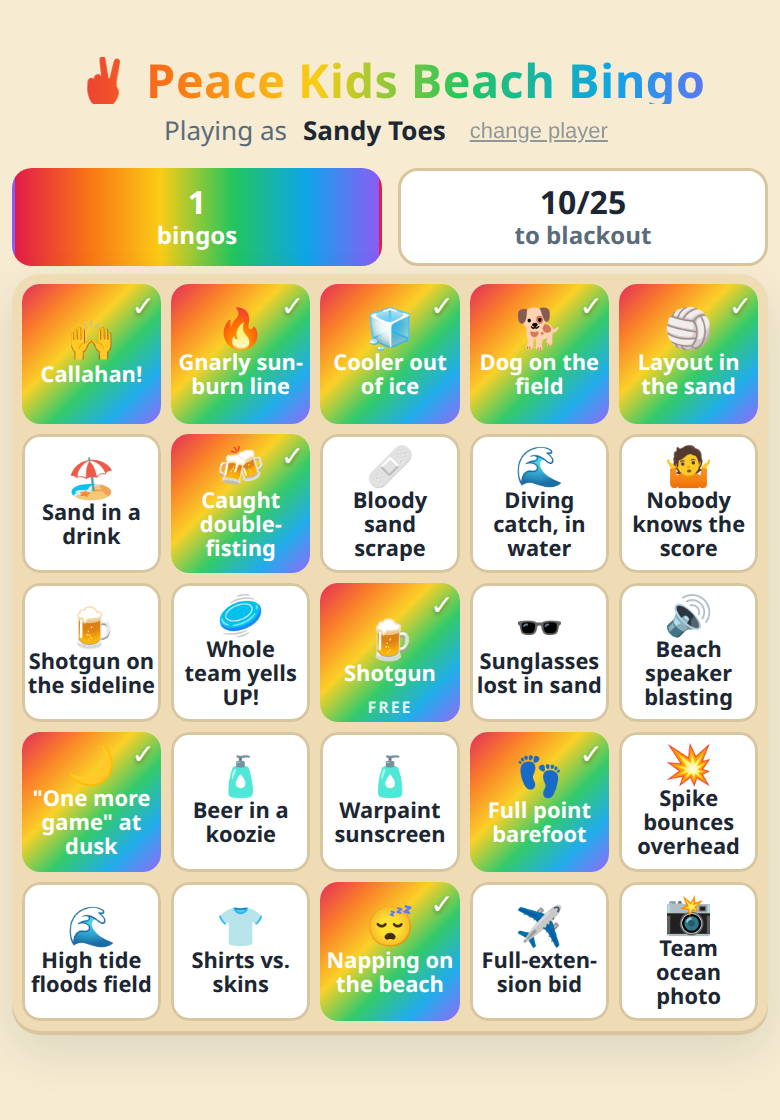
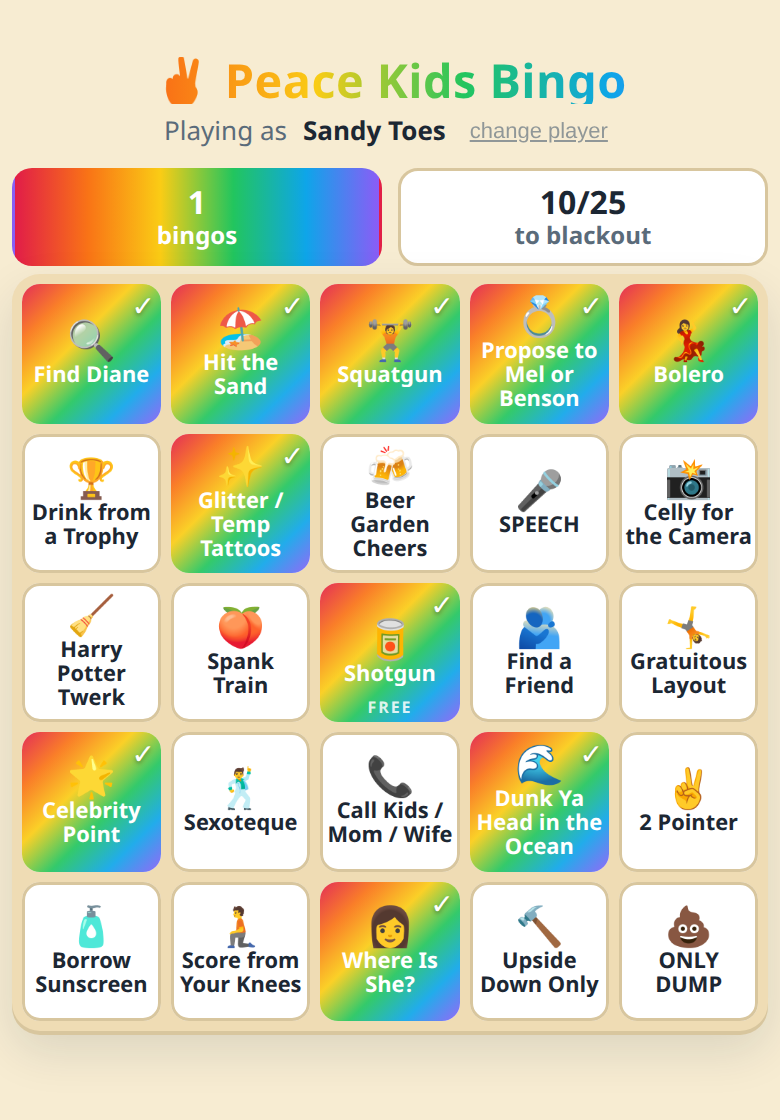
Load the real Peace Kids squares; drop "Beach" from the title
Replace the placeholder beach prompts with the team's 24 squares, set the
Shotgun free space to a can emoji, and rename to "Peace Kids Bingo". Update
the README for the 24-prompt (position-only) model and refresh screenshots.

diff --git a/index.html b/index.html
@@ -4,7 +4,7 @@
 <meta charset="UTF-8">
 <meta name="viewport" content="width=device-width, initial-scale=1.0, viewport-fit=cover">
 <meta name="theme-color" content="#0e7490">
-<title>Peace Kids Beach Bingo</title>
+<title>Peace Kids Bingo</title>
 <style>
   /* ---- Content settings live in the <script> CONFIG/PROMPTS below. Style only here. ---- */
   :root{
@@ -132,7 +132,7 @@
 <body>
 
 <header>
-  <h1>✌ Peace Kids Beach Bingo</h1>
+  <h1>✌ Peace Kids Bingo</h1>
   <div class="who">Playing as <b id="whoName">--</b><button id="changeUser">change player</button></div>
 </header>
 
@@ -167,40 +167,34 @@
    ========================================================================== */
 const CONFIG = {
   // Center free space. Swap emoji for img:"shotgun.png" once an image is added to images/.
-  freeSpace: { text: "Shotgun", emoji: "🍺" },
+  freeSpace: { text: "Shotgun", emoji: "🥫" },
 };
 
 const PROMPTS = [
-  { text: "Layout in the sand",       emoji: "🏐" },
-  { text: "Gnarly sunburn line",      emoji: "🔥" },
-  { text: "Lost a flip-flop",         emoji: "🩴" },
-  { text: "Beer in a koozie",         emoji: "🧴" },
-  { text: "Diving catch, in water",   emoji: "🌊" },
-  { text: "Whole team yells UP!",     emoji: "🥏" },
-  { text: "Cooler out of ice",        emoji: "🧊" },
-  { text: "Full point barefoot",      emoji: "👣" },
-  { text: "Callahan!",                emoji: "🙌" },
-  { text: "Dog on the field",         emoji: "🐕" },
-  { text: "Spike bounces overhead",   emoji: "💥" },
-  { text: "Team ocean photo",         emoji: "📸" },
-  { text: "Napping on the beach",     emoji: "😴" },
-  { text: "Beer snake sighting",      emoji: "🐍" },
-  { text: "Sand in a drink",          emoji: "🏖" },
-  { text: "Huck into the ocean",      emoji: "🌊" },
-  { text: "Shirts vs. skins",         emoji: "👕" },
-  { text: "Sunglasses lost in sand",  emoji: "🕶" },
-  { text: "Caught double-fisting",    emoji: "🍻" },
-  { text: '"One more game" at dusk',  emoji: "🌙" },
-  { text: "Bloody sand scrape",       emoji: "🩹" },
-  { text: "Beach speaker blasting",   emoji: "🔊" },
-  { text: "Drink for a bad call",     emoji: "🍺" },
-  { text: "Chase disc into the sea",  emoji: "🏊" },
-  { text: "Hiding in a shade tent",   emoji: "⛺" },
-  { text: "Warpaint sunscreen",       emoji: "🧴" },
-  { text: "Full-extension bid",       emoji: "✈" },
-  { text: "Nobody knows the score",   emoji: "🤷" },
-  { text: "Shotgun on the sideline",  emoji: "🍺" },
-  { text: "High tide floods field",   emoji: "🌊" },
+  { text: "Find Diane",                emoji: "🔍" },
+  { text: "Where Is She?",             emoji: "👩" },
+  { text: "Celly for the Camera",      emoji: "📸" },
+  { text: "Squatgun",                  emoji: "🏋" },
+  { text: "Spank Train",               emoji: "🍑" },
+  { text: "Bolero",                    emoji: "💃" },
+  { text: "Beer Garden Cheers",        emoji: "🍻" },
+  { text: "Find a Friend",             emoji: "🫂" },
+  { text: "Dunk Ya Head in the Ocean", emoji: "🌊" },
+  { text: "Sexoteque",                 emoji: "🕺" },
+  { text: "Borrow Sunscreen",          emoji: "🧴" },
+  { text: "Glitter / Temp Tattoos",    emoji: "✨" },
+  { text: "ONLY DUMP",                 emoji: "💩" },
+  { text: "Propose to Mel or Benson",  emoji: "💍" },
+  { text: "Hit the Sand",              emoji: "🏖" },
+  { text: "Drink from a Trophy",       emoji: "🏆" },
+  { text: "2 Pointer",                 emoji: "✌" },
+  { text: "Harry Potter Twerk",        emoji: "🧹" },
+  { text: "Upside Down Only",          emoji: "🔨" },
+  { text: "Score from Your Knees",     emoji: "🧎" },
+  { text: "Gratuitous Layout",         emoji: "🤸" },
+  { text: "SPEECH",                    emoji: "🎤" },
+  { text: "Call Kids / Mom / Wife",    emoji: "📞" },
+  { text: "Celebrity Point",           emoji: "🌟" },
 ];
 
 /* ============================================================================

diff --git a/README.md b/README.md
@@ -14,8 +14,9 @@ top of `index.html`, so it re-themes to anything.
 
 ## How it works
 
-- The game has a **pool of prompts** (currently ~30). Each player gets a random **24-square
-  subset** arranged on a 5×5 grid, with a fixed **FREE** square in the center.
+- The game has a **pool of 24 prompts**. Each player gets all 24 arranged on a 5×5 grid in a
+  layout **shuffled from their name**, with a fixed **FREE** square in the center. (Add more
+  than 24 to the pool and each player instead draws a random subset -- see below.)
 - A player's name is normalized (`trim` → collapse spaces → `lowercase` → Unicode `NFC`) and
   hashed with **cyrb128** into a 128-bit seed. That seed drives an **sfc32** PRNG, which does
   a **Fisher-Yates** shuffle of the pool. Same name in → same board out, forever, everywhere.
